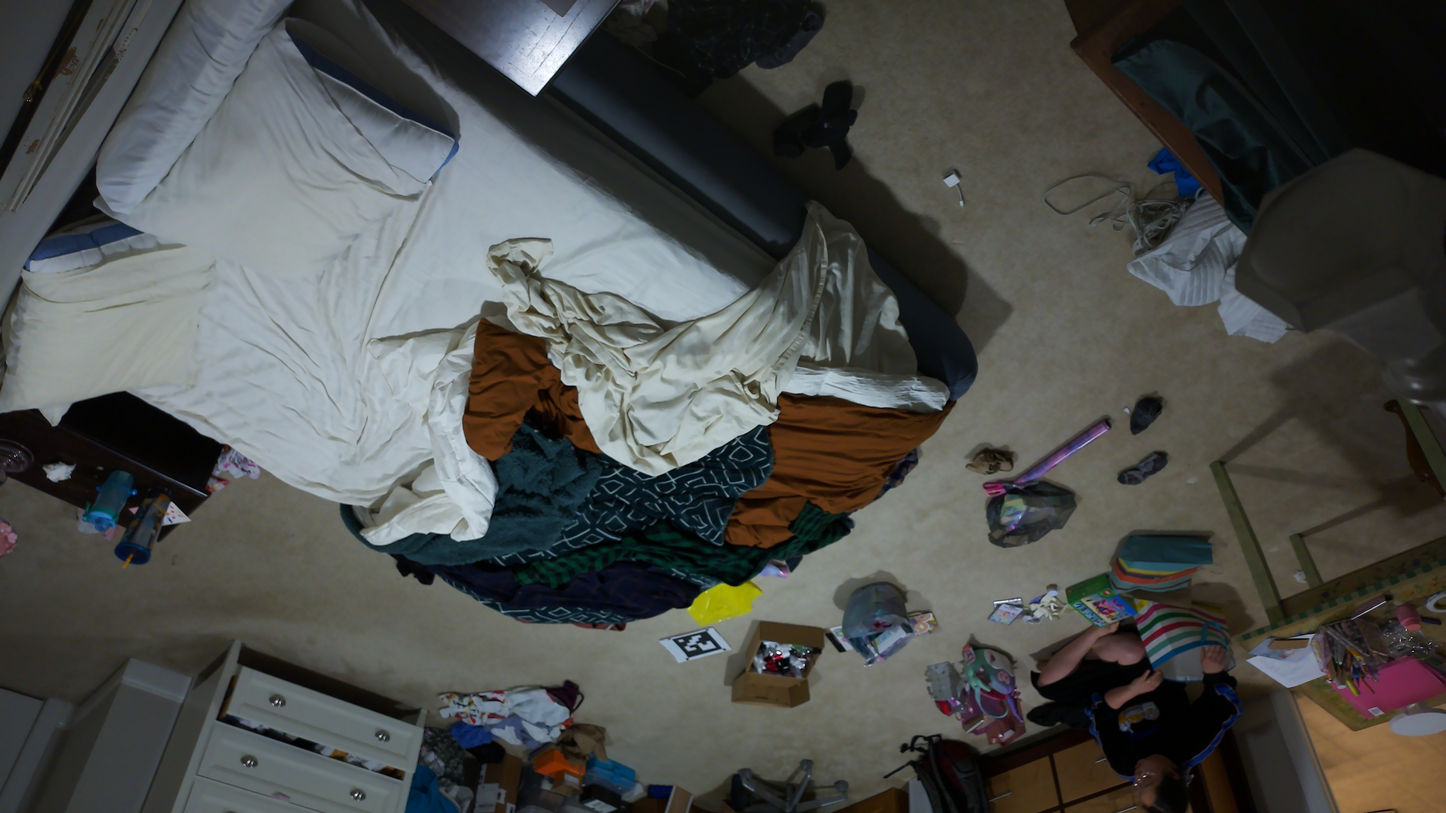
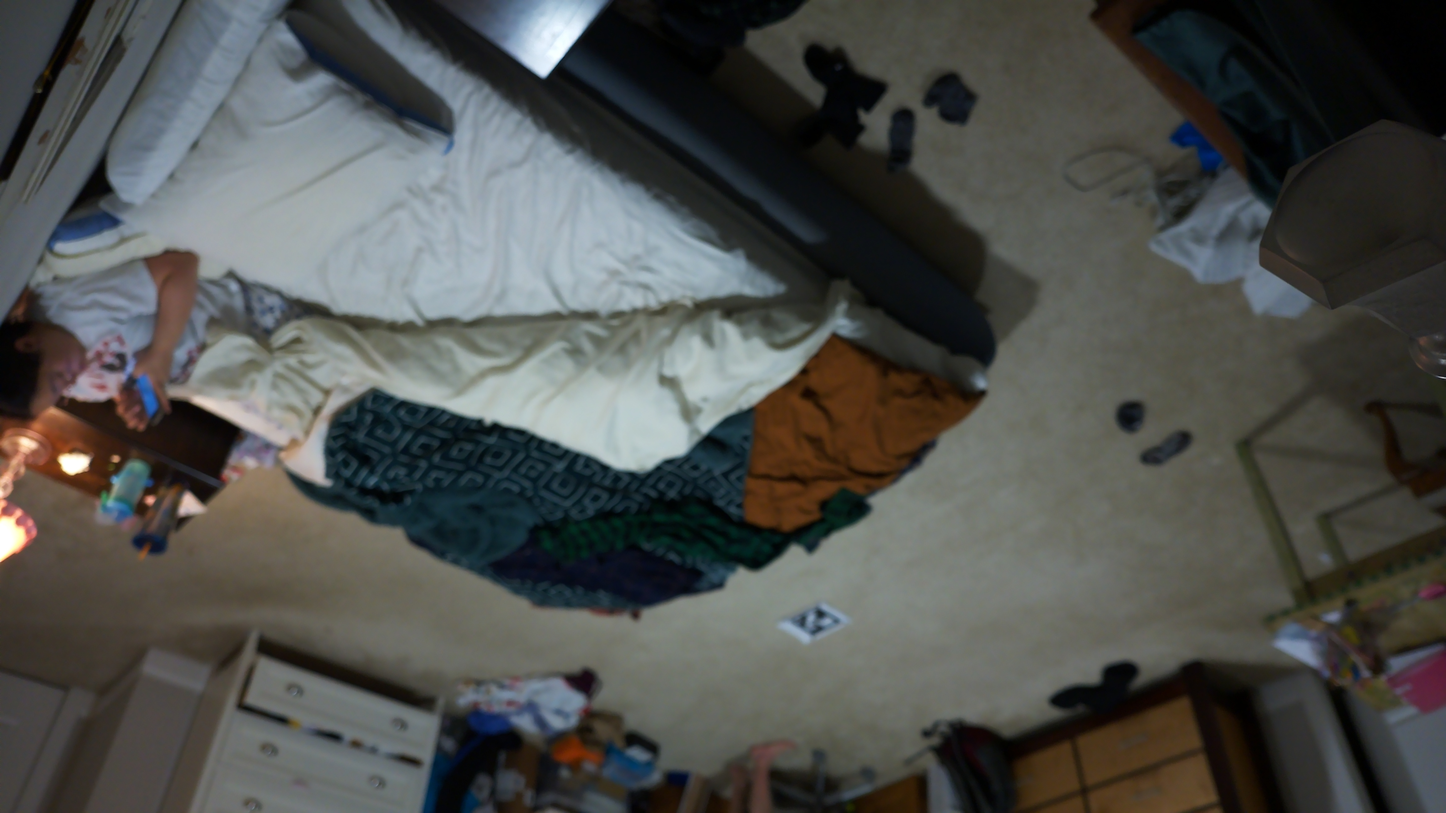
image sending mode

diff --git a/anchor_server.py b/anchor_server.py
@@ -68,9 +68,8 @@ class RobotComponentServer:
                 if 'reference_length' in update:
                     self.spooler.setReferenceLength(float(update['reference_length']))
                 if 'video_task_mode' in update:
-                    
-                # command for turning on and off location detection
-                # command for turning on and off image streaming
+                    modes = update['video_task_mode']
+                    f'MODE:{bool(modes['send_images'])}:{bool(modes['send_detections'])}'
                 # command to kill or restart the camera task
                 # sleep
                 # slow stop
@@ -90,16 +89,21 @@ class RobotComponentServer:
 
     async def listen_detector(self, detection_queue):
         while self.run_client:
-            # pull up to 20 things off the queue. This is to keep ws messages smaller
-            dets = []
-            for i in range(20):
-                if detection_queue.empty():
-                    break
-                dets.append(detection_queue.get_nowait())
-            if len(dets) > 0 and self.ws:
-                print(f"sending {len(dets)} detections")
+            # pull up to 20 detections or one image off the queue. This is to keep ws messages smaller
+            detections = []
+            message = {}
+            while !detection_queue.empty() and (len(detections) < 20 or ('image' not in message)):
+                item = detection_queue.get_nowait()
+                if 'detection' in item:
+                    detections.append(item['detection'])
+                if 'image' in item:
+                    message['image'] = item['image']
+            if len(detections) > 0:
+                message['detections'] = detections
+            if message != {} and self.ws:
+                print(f"sending {len(detections)} detections, with_image={('image' in message)}")
                 try:
-                    await self.ws.send(json.dumps({'detections': dets}))
+                    await self.ws.send(json.dumps(message))
                 except (ConnectionClosedOK, ConnectionClosedError):
                     # no problem, client left. just throw these out
                     await asyncio.sleep(2.0)

diff --git a/local_cam.py b/local_cam.py
@@ -23,19 +23,35 @@ def local_aruco_detection(outq, control_queue):
     picam2.align_configuration(capture_config)
     picam2.configure(capture_config)
     picam2.start()
-    picam2.set_controls({"AfMode": controls.AfModeEnum.Manual, "LensPosition": 0.000001, "AfSpeed": controls.AfSpeedEnum.Fast}) 
+    picam2.set_controls({"AfMode": controls.AfModeEnum.Manual, "LensPosition": 0.1, "AfSpeed": controls.AfSpeedEnum.Fast}) 
+    send_images
+    send_detections
     while True:
         if not control_queue.empty():
-            if control_queue.get_nowait() == "STOP":
+            message = control_queue.get_nowait()
+            if message == 'STOP':
                 break # exit loop, ending process
-
-        sec = time.time()
-        im = picam2.capture_array()
-        detections = locate_markers(im)
-        if len(detections) > 0:
-            for det in detections:
-                det['s'] = sec # add the time of capture to the detection
-                outq.put(det)
+            if message.startswith('MODE'):
+                m = message.split(':')
+                send_images = m[1] == 'True'
+                send_detections m[2] == 'True'
+        if send_images or send_detections:
+            sec = time.time()
+            im = picam2.capture_array()
+            if send_images:
+                result, encoded_img = cv2.imencode(ext, image)  # Encode to memory buffer
+                if result:
+                    outq.put({'image':{'timestamp':sec, 'data':encoded_img.tobytes()}})
+                else:
+                    print(f"Encoding failed with extension {ext}")
+            if send_detections:
+                detections = locate_markers(im)
+                if len(detections) > 0:
+                    for det in detections:
+                        det['s'] = sec # add the time of capture to the detection
+                        outq.put({'detection':det})
+        else:
+            time.sleep(1)
     print("PiCamera detection process ended")
 
 
